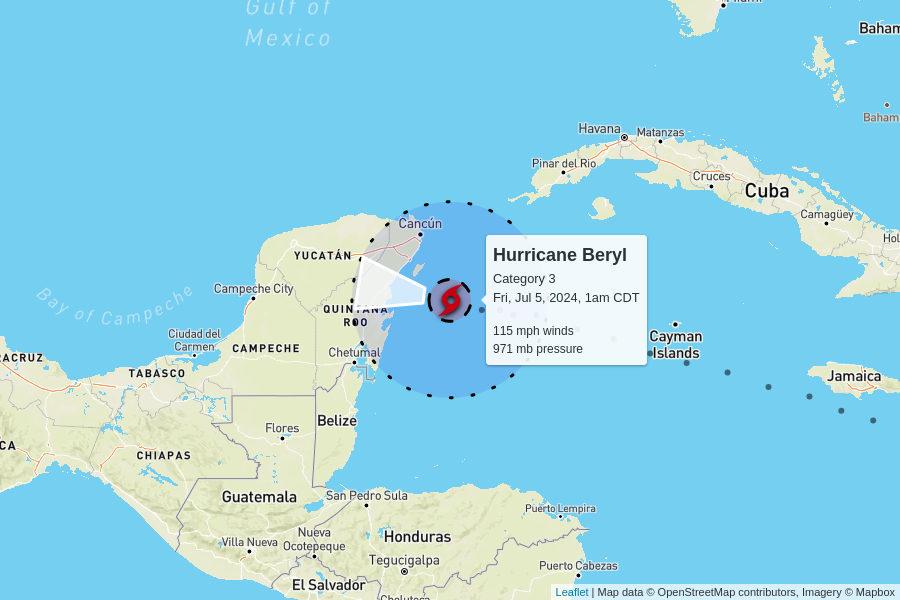
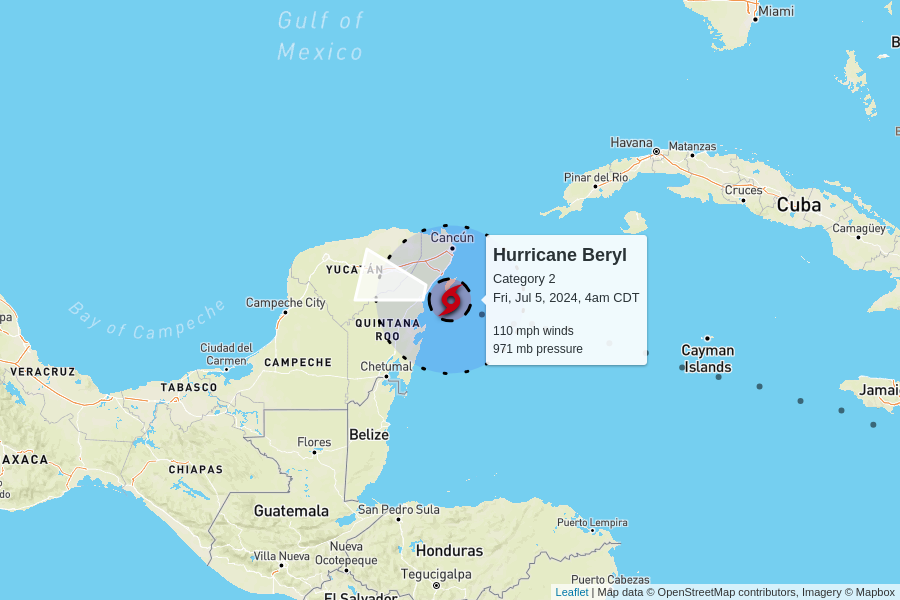
automatic update

diff --git a/docs/index.html b/docs/index.html
@@ -99,10 +99,10 @@
 
     <table>
       <tr>
-        <td colspan="6" class="storm category-3" >
+        <td colspan="6" class="storm category-2" >
           <h2>
-            Hurricane Beryl - Category 3
-            <p class="updated">last updated <span data-time>2024-07-05T06:00:00.000Z</span></p>
+            Hurricane Beryl - Category 2
+            <p class="updated">last updated <span data-time>2024-07-05T09:00:00.000Z</span></p>
           </h2>
         </td>
       </tr>
@@ -117,12 +117,12 @@
       </tr>
       <tr>
         <td class="spacer"></td>
-        <td>115 mph<br>0 mph since last update</td>
-        <td>971 mb<br>+7 mb since last update</td>
+        <td>110 mph<br>-5 mph since last update</td>
+        <td>971 mb<br>0 mb since last update</td>
         <td>
-          16 mph to the west
+          15 mph to the west-northwest
           <br/>
-          <span style="display: inline-block; font-size: 1.5em; transform: rotate(280deg);">↑</span>
+          <span style="display: inline-block; font-size: 1.5em; transform: rotate(285deg);">↑</span>
         </td>
         <td><a href="https://raw.githubusercontent.com/mgwalker/atlantic-hurricanes/main/data/csv/AL022024.csv">AL022024.csv</a></td>
         <td><a href="https://www.nhc.noaa.gov/archive/2024/BERYL.shtml?">NHC advisories</a></td>
